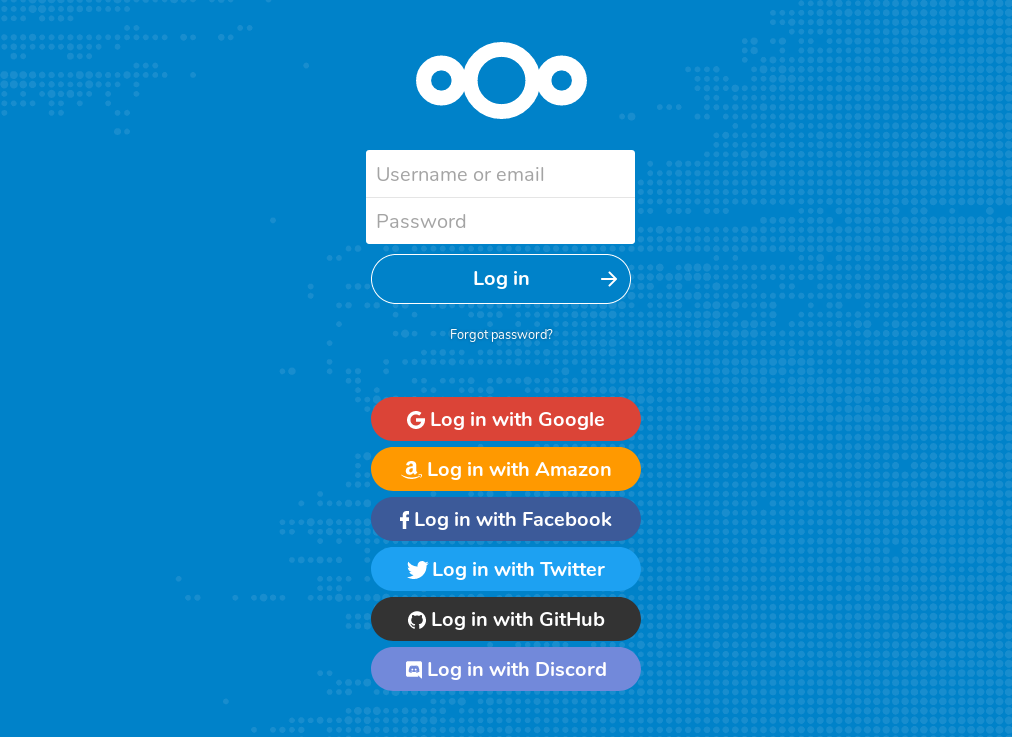
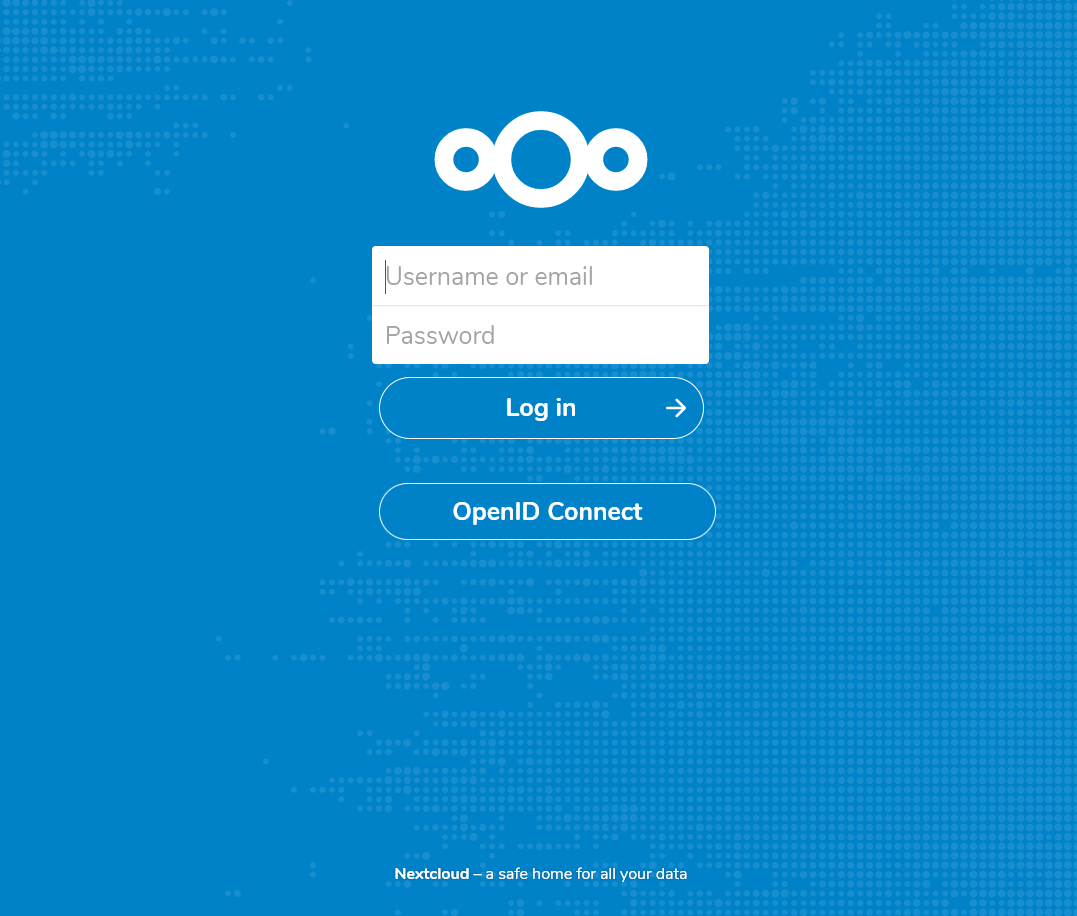
Update README

diff --git a/README.md b/README.md
@@ -1,16 +1,28 @@
-# OpenID Connect Basic
+# NextCloud Single OpenID Connect
 
-Make possible create users and login via OpenID Connect
+Make possible create users and login via one single OpenID Connect provider. Fork of https://github.com/zorn-v/nextcloud-social-login
 
 ## Config
 
 ```php
 $CONFIG = array (
+    'allow_user_to_change_display_name' => false,
+    'lost_password_link' => 'disabled',
+
     'oidc_login_provider_url' => 'https://openid.example.com',
     'oidc_login_client_id' => 'application',
     'oidc_login_client_secret' => 'secret',
     'oidc_login_auto_redirect' => false,
     'oidc_login_logout_url' => 'https://openid.example.com/thankyou',
+    'oidc_login_default_quota' => '1000000',
+    'oidc_login_attributes' => array (
+        'id' => 'sub',
+        'name' => 'name',
+        'uid' => 'sub',
+        'mail' => 'mail',
+        'quota' => 'ownCloudQuota',
+        'home' => 'homeDirectory',
+    ),
 );
 ```
 
